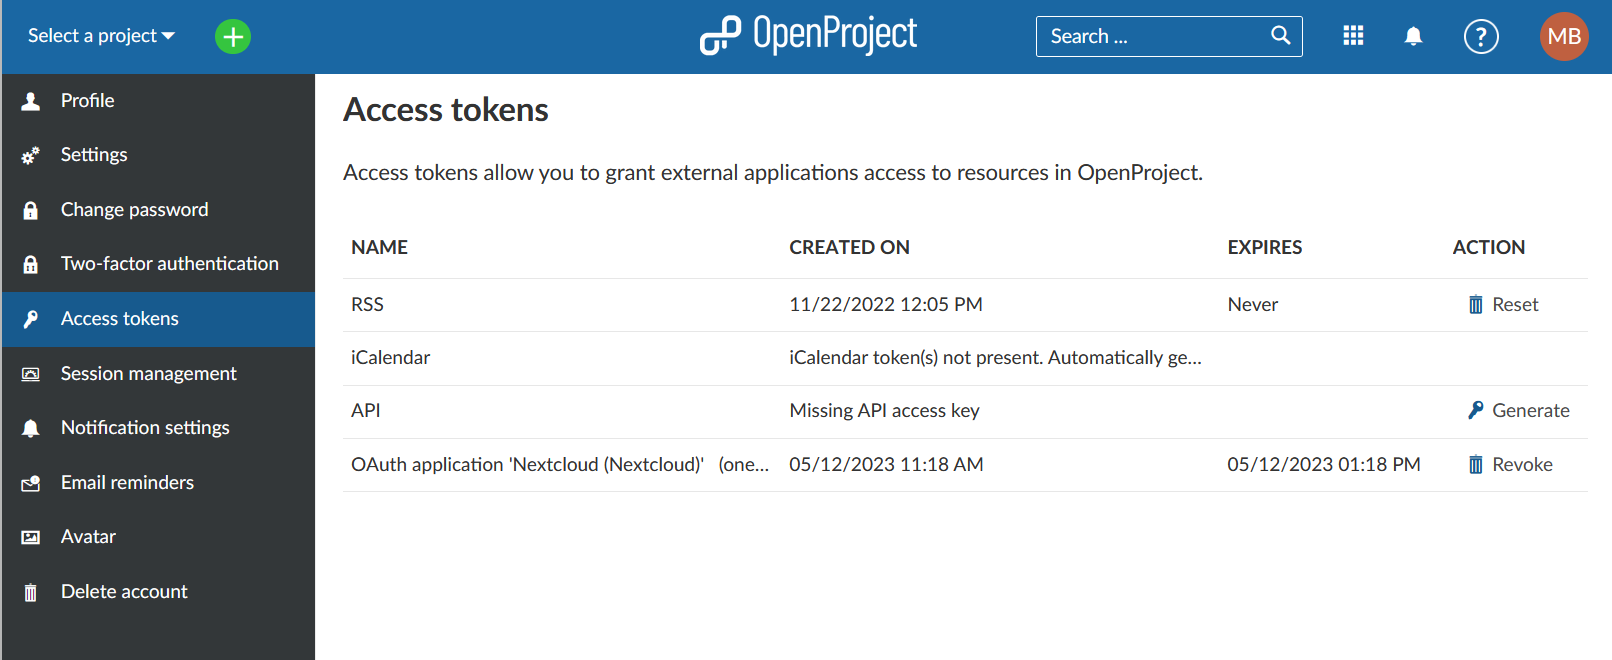
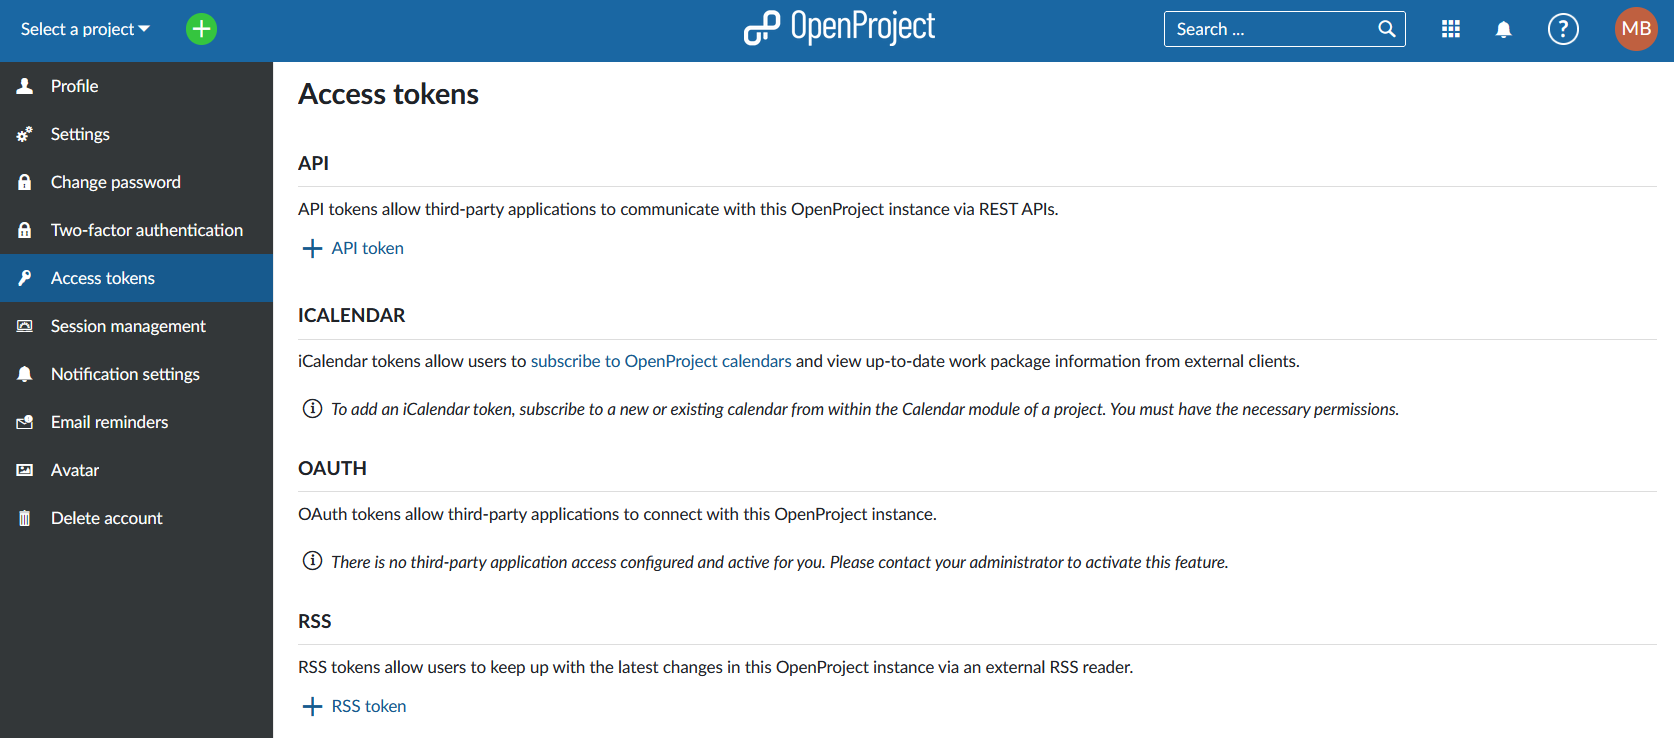
Updating documentaiton on access tokens under My Account

diff --git a/docs/getting-started/my-account/README.md b/docs/getting-started/my-account/README.md
@@ -8,7 +8,7 @@ keywords: my account, account settings, change language
 
 # My account
 
-Change your personal settings in My account. Here you can adapt, e.g. the language, edit notifications, or add an avatar.
+Change your personal settings in My account. Here you can adapt, e.g. the language, edit notifications, or add an avatar. Moreover you can manage access tokens and sessions.
 
 | Topic                                                        | Content                                                      |
 | ------------------------------------------------------------ | ------------------------------------------------------------ |
@@ -31,7 +31,7 @@ To open your personal settings in OpenProject, click on your user icon in the to
 
 Choose **My account**.
 
-![my account profil information](my-account-profil.png)
+![my account profil information](openproject_my_account_profile.png)
 
 ## Edit your user information
 To change your email address or your name, navigate to **Profile** on the right side menu of **My account** page.
@@ -83,7 +83,7 @@ There are two personal settings available for the [Backlogs module](../../user-g
 
 ## Change password
 
-In order to reset your password, navigate to the My account section and choose **Change password** in the menu.
+In order to reset your password, navigate to  **My account** and choose **Change password** in the menu.
 
 ![my account change password](openproject_my_account_change_password.png)
 
@@ -123,12 +123,46 @@ Click the blue **Continue** button to finish the registration.
 
 ## Access tokens
 To view and manage your OpenProject access tokens navigate to **My account** and choose **Access tokens** from the menu. 
+Access tokens allow you to grant external applications access to resources in OpenProject. 
 
 ![openproject_my_account_access_tokens](openproject_my_account_access_tokens.png)
 
-Access tokens allow you to grant external applications access to resources in OpenProject. For example [read here about adding GitHub Integration](https://www.openproject.org/docs/system-admin-guide/integrations/github-integration/).
+### API
+API tokens allow third-party applications to communicate with this OpenProject instance via REST APIs. If you have not yet created an API token, this list will be empty. You may need admin privileges to be able to create an API.
+
+You can enable an API token under *Administration -> API and webhooks*. LINK TO HOW ITS DONE IN SYSTEM ADMIN GUIDE.
+### iCalendar
+iCalendar tokens allow users to subscribe to OpenProject calendars and view up-to-date work package information from external clients. 
+This list will be empty if you have not yet subscribed to any calendars. Once you [subscribe to a calendar] (LINK TO ICAL DOCUMENTATION), a list of all the calendars that you have subscribed to will appear here. The name of the calendar is clickable and will lead you directly to the respective calendar in OpenProject. 
+
+![OpenProject calendar list under my account](openproject_my_account_access_tokens_calendar_list.png)
+
+You can delete an entry in the iCalendar list by clicking on the **Delete** icon. This will trigger a warning message asking you to confirm the decision to delete.  
+
+![OpenProject delete calendar in My Account](openproject_my_account_access_tokens_delete_calendar.png)
+
+You will then see a message informing you that the the token und the iCal URL are now invalid.
+
+![OpenProject calendar access token is invalid](openproject_my_account_access_tokens_calendar_invalid.png)
+
+### OAUTH
+
+OAuth tokens allow third-party applications to connect with this OpenProject instance. OAuth tokens can be created under [*Administration-> Authentication*](https://www.openproject.org/docs/system-admin-guide/authentication/). You will need admin privileges. 
+
+Potential bug? OAuth created for my user not showing here. 
+
+### RSS
+
+RSS tokens allow users to keep up with the latest changes in this OpenProject instance via an external RSS reader.  You can only create one RSS token (?). 
+
+Create by clicking the **+RSS token** button. This will create your token and trigger a message showing you the access token. 
+
+>  **Note**: You will only be able to see the RSS access token once, directly after you create it. Make sure to copy it. 
+
+![OpenProject RSS token](openproject_my_account_access_tokens_rss.png)
 
 ## Sessions management
+
 To view and manage your OpenProject sessions navigate to **My account** and choose **Sessions management** from the menu. 
 
 ![openproject_my_account_sessions_management](openproject_my_account_sessions_management.png)
